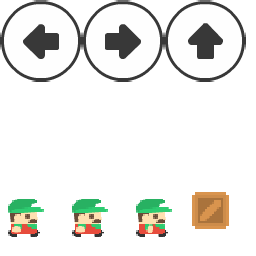
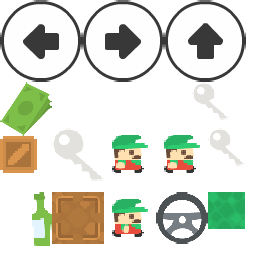
add game logic

diff --git a/scripts/c3runtime.js b/scripts/c3runtime.js
@@ -2822,6 +2822,25 @@ inst.GetBehaviorInstanceFromCtor(C3.Behaviors.scrollto);if(!behInst||!behInst.Ge
 'use strict';{const C3=self.C3;C3.Behaviors.scrollto.Exps={}};
 
 
+'use strict';{const C3=self.C3;C3.Behaviors.jumpthru=class JumpthruBehavior extends C3.SDKBehaviorBase{constructor(opts){super(opts)}Release(){super.Release()}}};
+
+
+'use strict';{const C3=self.C3;C3.Behaviors.jumpthru.Type=class JumpthruType extends C3.SDKBehaviorTypeBase{constructor(behaviorType){super(behaviorType)}Release(){super.Release()}OnCreate(){}}};
+
+
+'use strict';{const C3=self.C3;const ENABLE=0;C3.Behaviors.jumpthru.Instance=class JumpthruInstance extends C3.SDKBehaviorInstanceBase{constructor(behInst,properties){super(behInst);this.SetEnabled(true);if(properties)this.SetEnabled(properties[ENABLE])}Release(){super.Release()}SetEnabled(e){this._inst._SetJumpthruEnabled(!!e)}IsEnabled(){return this._inst._IsJumpthruEnabled()}SaveToJson(){return{"e":this.IsEnabled()}}LoadFromJson(o){this.SetEnabled(o["e"])}GetPropertyValueByIndex(index){switch(index){case ENABLE:return this.IsEnabled()}}SetPropertyValueByIndex(index,
+value){switch(index){case ENABLE:this.SetEnabled(value);break}}GetDebuggerProperties(){return[{title:"$"+this.GetBehaviorType().GetName(),properties:[{name:"behaviors.jumpthru.properties.enabled.name",value:this.IsEnabled(),onedit:v=>this.SetEnabled(v)}]}]}}};
+
+
+'use strict';{const C3=self.C3;C3.Behaviors.jumpthru.Cnds={IsEnabled(){return this.IsEnabled()}}};
+
+
+'use strict';{const C3=self.C3;C3.Behaviors.jumpthru.Acts={SetEnabled(e){this.SetEnabled(e)}}};
+
+
+'use strict';{const C3=self.C3;C3.Behaviors.jumpthru.Exps={}};
+
+
 "use strict"
 {
 	const C3 = self.C3;
@@ -2834,6 +2853,7 @@ inst.GetBehaviorInstanceFromCtor(C3.Behaviors.scrollto);if(!behInst||!behInst.Ge
 		C3.Behaviors.scrollto,
 		C3.Plugins.Touch,
 		C3.Plugins.Text,
+		C3.Behaviors.jumpthru,
 		C3.Plugins.Touch.Cnds.IsTouchingObject,
 		C3.Plugins.Sprite.Acts.SetMirrored,
 		C3.Behaviors.Platform.Acts.SimulateControl,
@@ -2841,8 +2861,22 @@ inst.GetBehaviorInstanceFromCtor(C3.Behaviors.scrollto);if(!behInst||!behInst.Ge
 		C3.Plugins.Sprite.Cnds.IsOutsideLayout,
 		C3.Plugins.Sprite.Acts.SetX,
 		C3.Plugins.Sprite.Acts.SetY,
+		C3.Plugins.System.Acts.AddVar,
 		C3.Plugins.Sprite.Cnds.OnCollision,
-		C3.Plugins.Sprite.Acts.Destroy
+		C3.Plugins.Sprite.Acts.Destroy,
+		C3.Plugins.Text.Acts.SetText,
+		C3.Plugins.System.Cnds.Every,
+		C3.Plugins.Sprite.Cnds.IsOverlapping,
+		C3.Behaviors.Platform.Acts.SetEnabled,
+		C3.Plugins.Text.Acts.SetVisible,
+		C3.Plugins.System.Acts.Wait,
+		C3.Plugins.System.Acts.WaitForPreviousActions,
+		C3.Plugins.System.Cnds.CompareBoolVar,
+		C3.Plugins.Sprite.Acts.SetVisible,
+		C3.Plugins.Sprite.Exps.Y,
+		C3.Plugins.System.Acts.ToggleBoolVar,
+		C3.Plugins.System.Cnds.CompareVar,
+		C3.Plugins.Sprite.Acts.MoveForward
 		];
 	};
 	self.C3_JsPropNameTable = [
@@ -2864,7 +2898,30 @@ inst.GetBehaviorInstanceFromCtor(C3.Behaviors.scrollto);if(!behInst||!behInst.Ge
 		{ТайловыйФон7: 0},
 		{ТайловыйФон8: 0},
 		{Текст: 0},
-		{Спрайт6: 0}
+		{Спрайт6: 0},
+		{TimeTxt: 0},
+		{Текст3: 0},
+		{Текст4: 0},
+		{ScoreTxt: 0},
+		{Спрайт7: 0},
+		{Спрайт8: 0},
+		{Спрайт9: 0},
+		{hello: 0},
+		{СквознаяПлатформа: 0},
+		{Спрайт10: 0},
+		{Текст2: 0},
+		{Спрайт11: 0},
+		{Key: 0},
+		{KeyIcon: 0},
+		{Спрайт12: 0},
+		{ТайловыйФон9: 0},
+		{Door: 0},
+		{hello2: 0},
+		{Msg: 0},
+		{Спрайт13: 0},
+		{Score: 0},
+		{Timer: 0},
+		{IsKey: 0}
 	];
 }
 
@@ -2967,7 +3024,22 @@ inst.GetBehaviorInstanceFromCtor(C3.Behaviors.scrollto);if(!behInst||!behInst.Ge
 
 	self.C3_ExpressionFuncs = [
 		() => 100,
-		() => 250
+		() => 250,
+		() => 5,
+		() => 1,
+		p => {
+			const v0 = p._GetNode(0).GetVar();
+			return () => v0.GetValue();
+		},
+		() => 4,
+		() => 0.5,
+		p => {
+			const n0 = p._GetNode(0);
+			return () => (n0.ExpObject() + 250);
+		},
+		() => 20,
+		() => -25,
+		() => 2
 	];
 }
 
